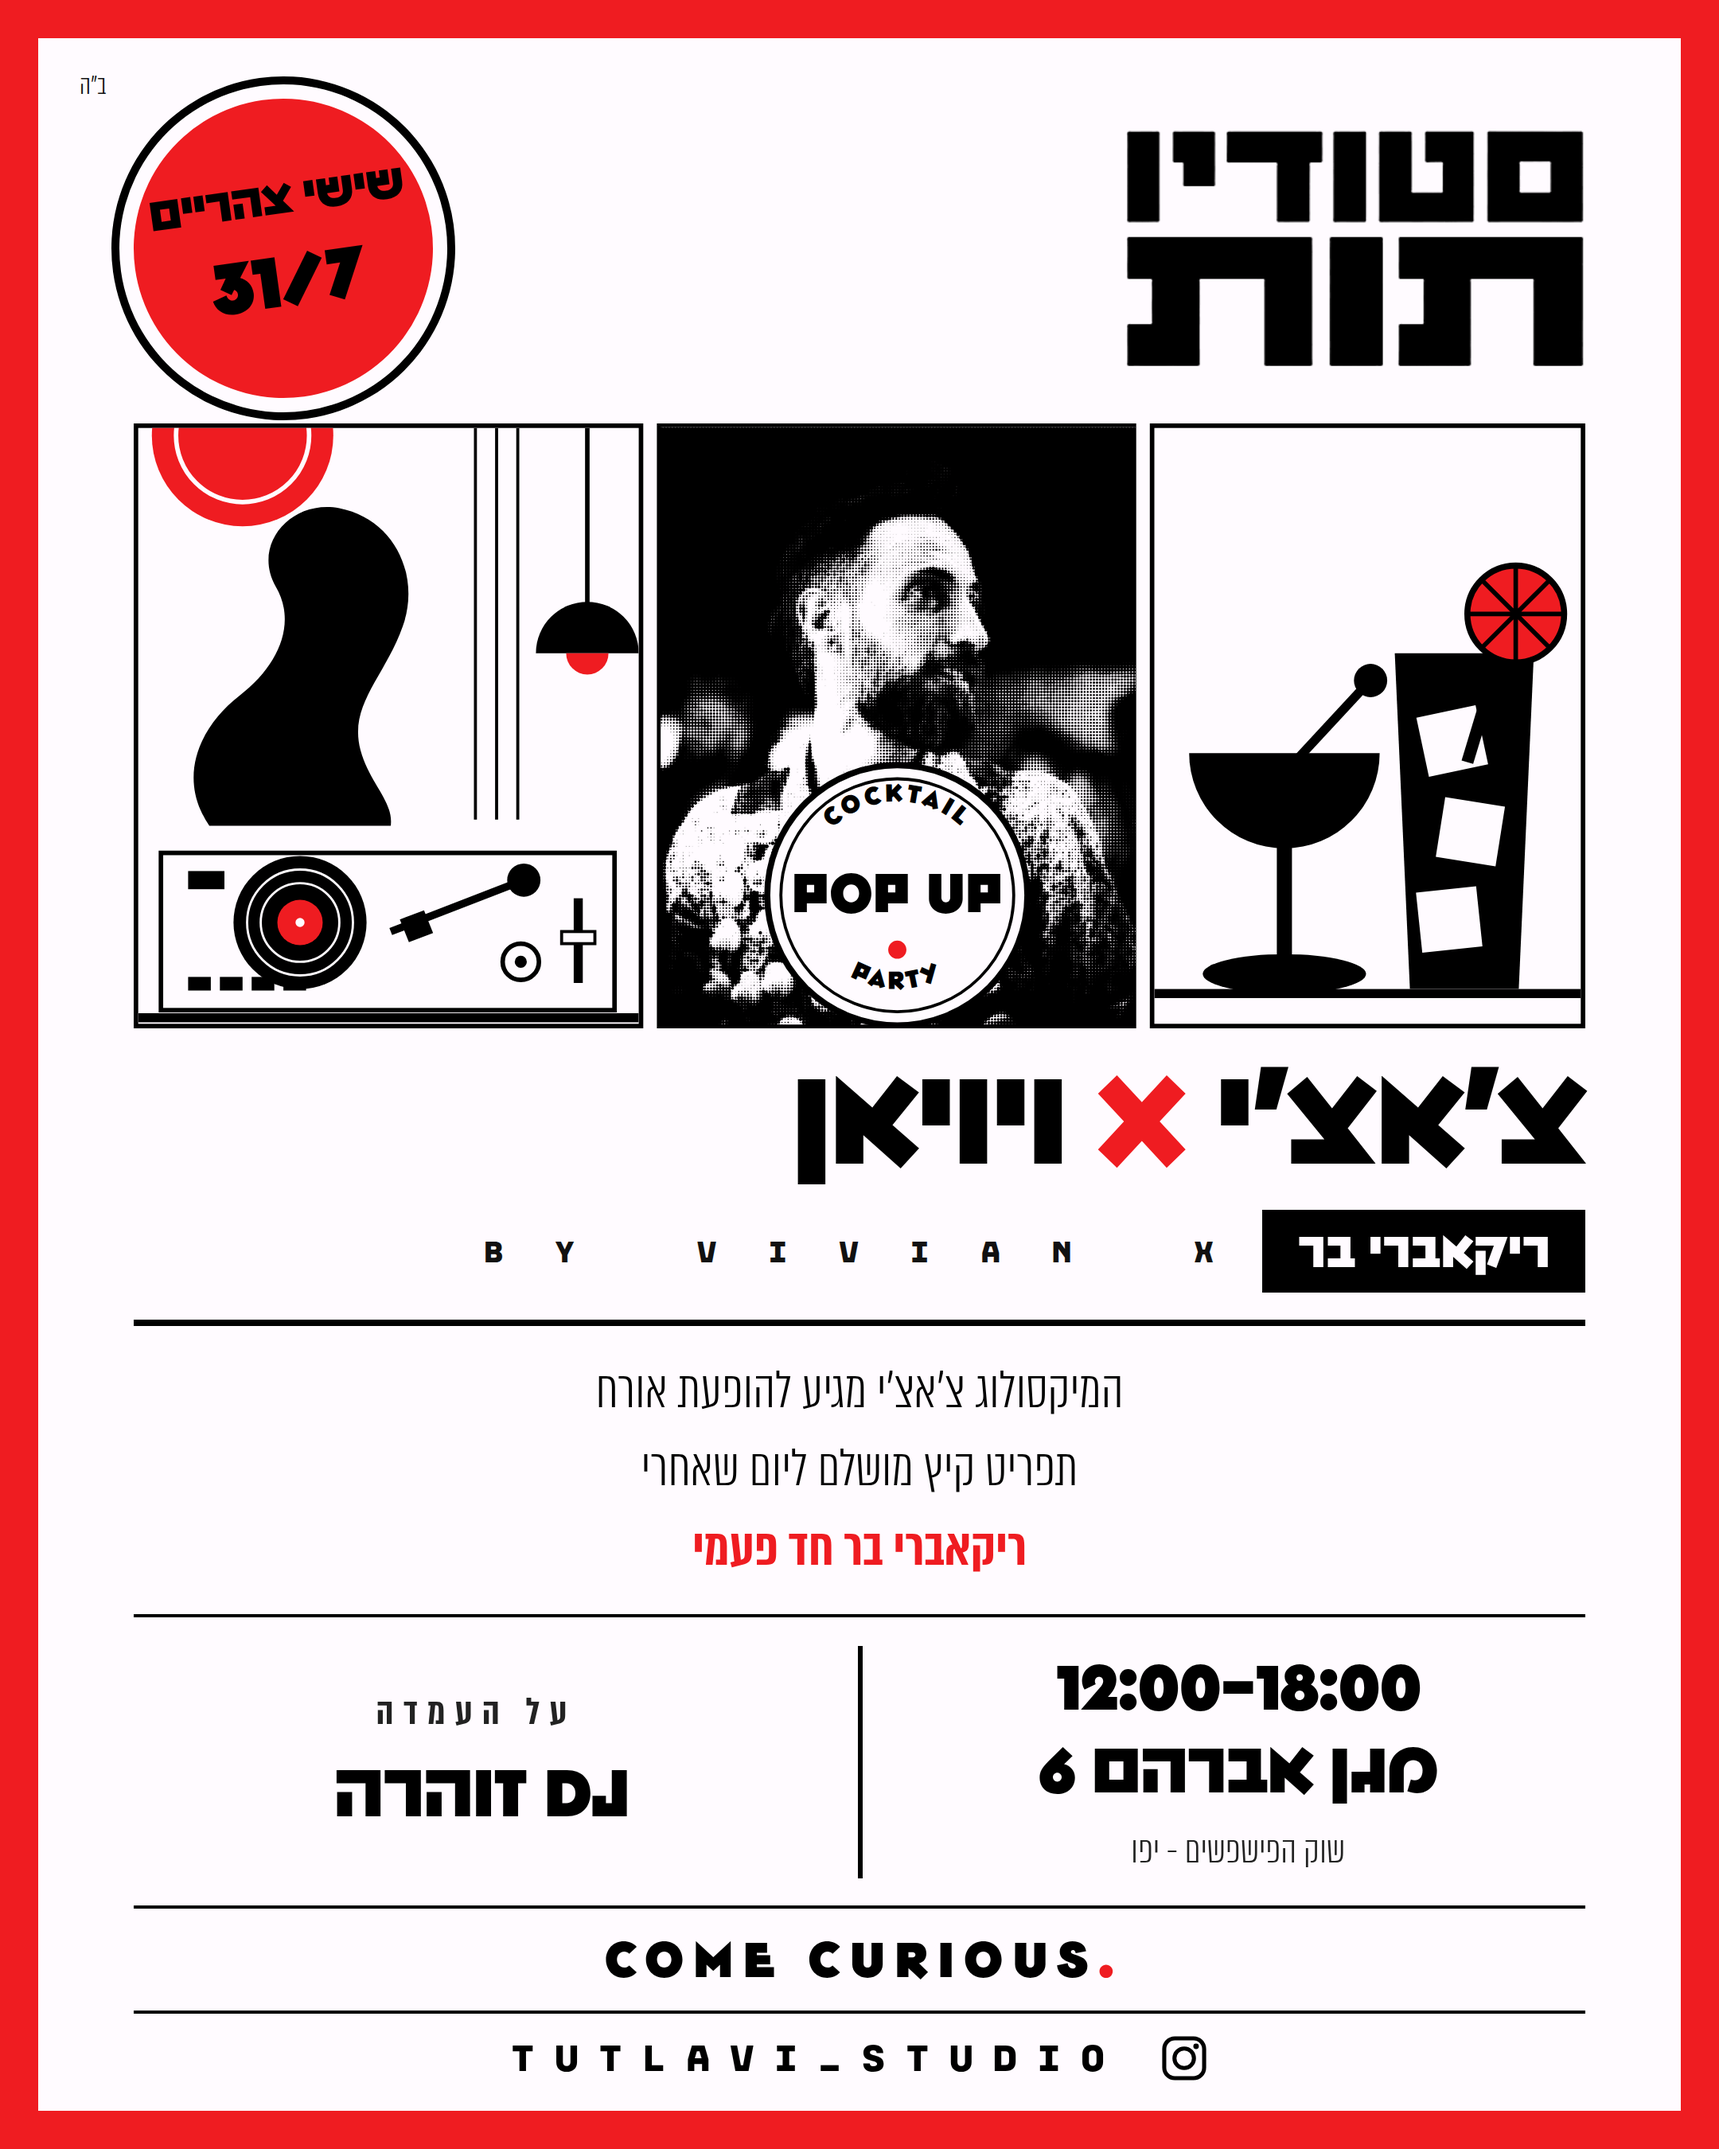
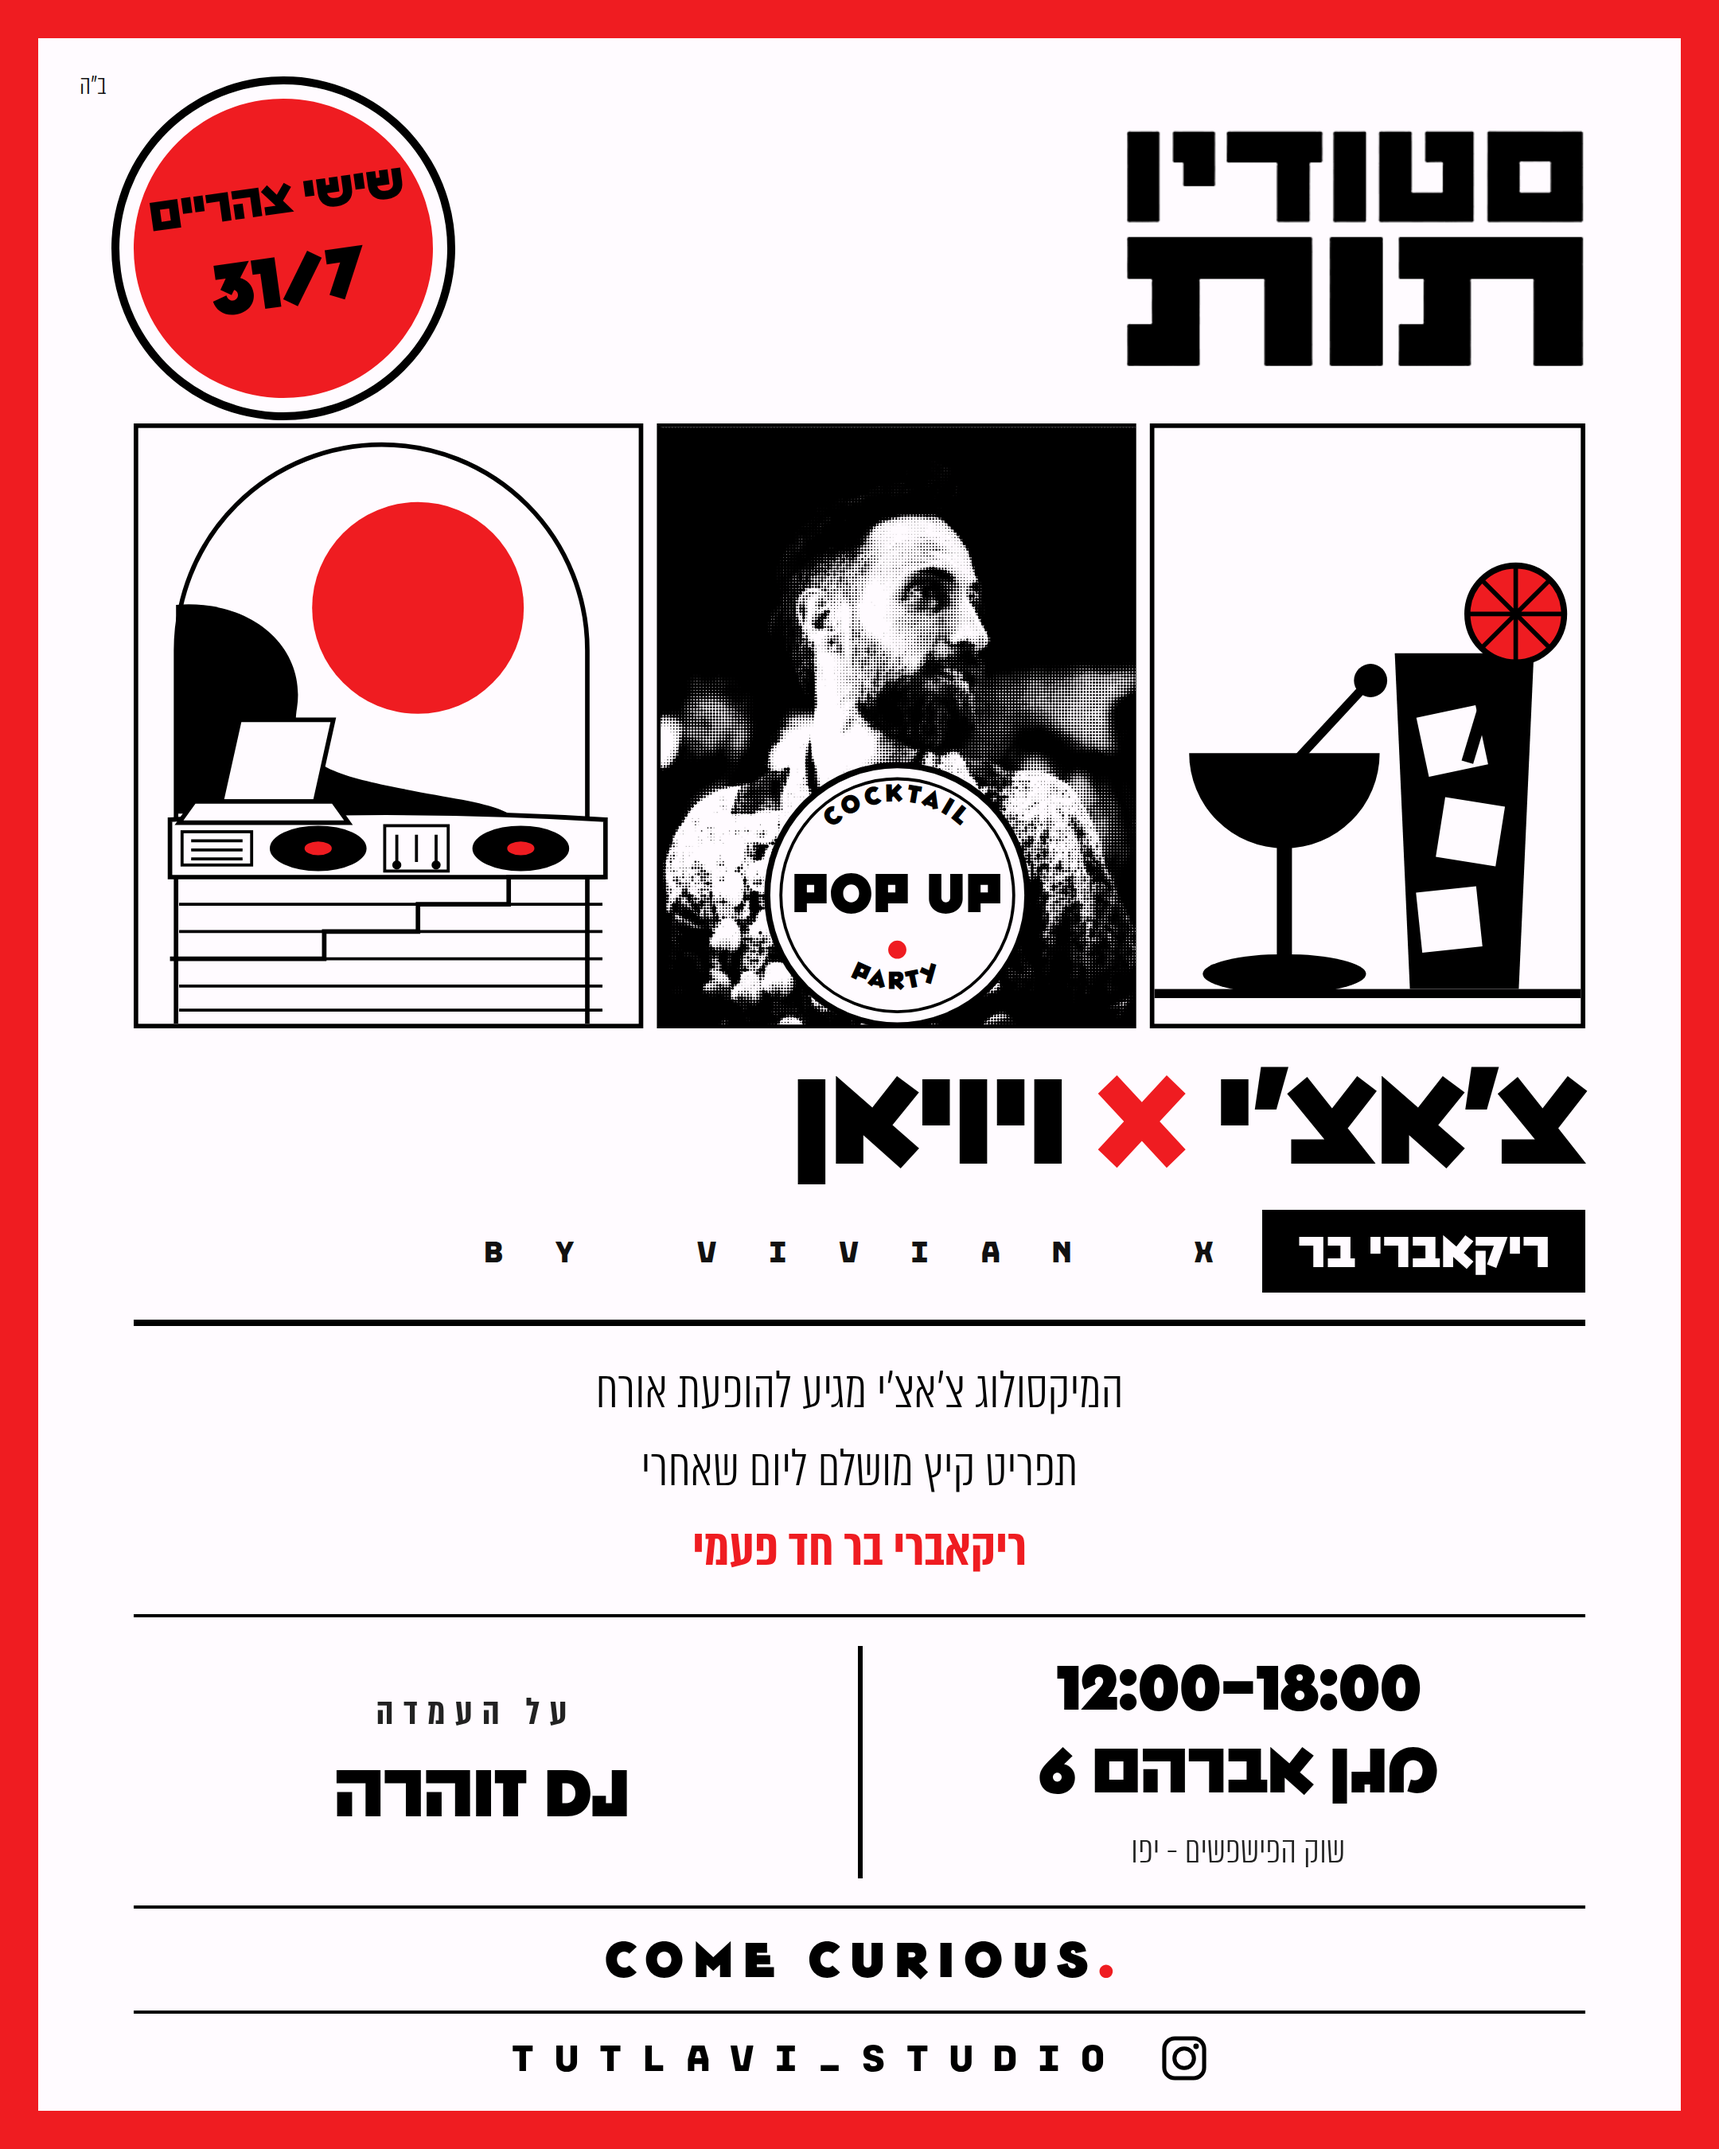
poster: rebuild the DJ panel from the opening-party poster
Arch outline, red sun, black organic blob, open laptop and a wide deck
slab carrying two turntables with red labels and a mixer, over the
stepped riser lines - the same element family as the original poster's
left panel.

Claude-Session: https://claude.ai/code/session_01AhfEANtPutTF2tRQEqNaFG

Changed region(s): [[0.0931, 0.1867, 0.3722, 0.4978]]

diff --git a/media/brand/poster-chachi.html b/media/brand/poster-chachi.html
@@ -98,57 +98,51 @@
       <rect x="673.5" y="1.5" width="285" height="397"/>
     </g>
 
-    <!-- ================= LEFT PANEL: turntable · blob · pendant lamp ================= -->
+    <!-- ============ LEFT PANEL: DJ booth, after the opening-party poster ============ -->
     <clipPath id="cL"><rect x="3" y="3" width="331" height="394"/></clipPath>
     <g clip-path="url(#cL)">
-      <!-- red sun, cropped by the panel edge -->
-      <circle cx="72" cy="8" r="60" fill="#ef1c21"/>
-      <circle cx="72" cy="8" r="44" fill="none" stroke="#fffbff" stroke-width="3"/>
-
+      <!-- arch -->
+      <path d="M28 397 V150 a136 136 0 0 1 272 0 V397" fill="none" stroke="#000" stroke-width="3"/>
+      <!-- red sun -->
+      <circle cx="188" cy="122" r="70" fill="#ef1c21"/>
       <!-- organic blob -->
-      <path d="M50 266 C28 234 44 200 70 180 C96 160 108 132 94 108
-               C78 80 104 50 136 56 C172 63 190 100 178 134
-               C166 168 142 186 150 216 C156 238 172 250 170 266 Z" fill="#000"/>
+      <path d="M28 120 C78 116 114 148 108 188
+               C102 224 132 232 170 240
+               C208 248 234 250 248 258
+               L28 258 Z" fill="#000"/>
 
-      <!-- thin vertical rules -->
-      <g stroke="#000" stroke-width="2">
-        <path d="M226 3 V262 M240 3 V262 M254 3 V262"/>
+      <!-- ---- console ---- -->
+      <!-- deck slab -->
+      <path d="M24 262 Q166 253 312 262 L312 300 L24 300 Z" fill="#fffbff" stroke="#000" stroke-width="3"/>
+      <!-- laptop, standing on the deck -->
+      <g stroke="#000" stroke-width="3" fill="#fffbff">
+        <path d="M58 250 L120 250 L132 196 L70 196 Z"/>
+        <path d="M40 250 L132 250 L142 264 L30 264 Z"/>
       </g>
-
-      <!-- pendant lamp -->
-      <path d="M300 3 V150" stroke="#000" stroke-width="3" fill="none"/>
-      <path d="M266 152 a34 34 0 0 1 68 0 Z" fill="#000"/>
-      <path d="M286 152 a14 14 0 0 0 28 0 Z" fill="#ef1c21"/>
-
-      <!-- ---- turntable, plan view ---- -->
-      <rect x="18" y="284" width="300" height="104" fill="#fffbff" stroke="#000" stroke-width="3"/>
-      <!-- platter -->
-      <circle cx="110" cy="330" r="44" fill="#000"/>
-      <circle cx="110" cy="330" r="35" fill="none" stroke="#fffbff" stroke-width="1.5"/>
-      <circle cx="110" cy="330" r="26" fill="none" stroke="#fffbff" stroke-width="1.5"/>
-      <circle cx="110" cy="330" r="15" fill="#ef1c21"/>
-      <circle cx="110" cy="330" r="3"  fill="#fffbff"/>
-      <!-- tone arm -->
-      <circle cx="258" cy="302" r="11" fill="#000"/>
-      <path d="M258 302 L170 336" stroke="#000" stroke-width="5" fill="none"/>
-      <path d="M176 328 l16 -6 6 15 -16 6 Z" fill="#000"/>
-      <!-- pitch fader -->
-      <rect x="291" y="314" width="6" height="56" fill="#000"/>
-      <rect x="283" y="336" width="22" height="8" fill="#fffbff" stroke="#000" stroke-width="2"/>
-      <!-- knob -->
-      <circle cx="256" cy="356" r="12" fill="none" stroke="#000" stroke-width="3"/>
-      <circle cx="256" cy="356" r="4"  fill="#000"/>
-      <!-- buttons -->
-      <g fill="#000">
-        <rect x="36" y="296" width="24" height="12"/>
-        <rect x="36" y="366" width="15" height="9"/>
-        <rect x="57" y="366" width="15" height="9"/>
-        <rect x="78" y="366" width="15" height="9"/>
-        <rect x="99" y="366" width="15" height="9"/>
+      <!-- left controller -->
+      <g stroke="#000" stroke-width="2" fill="none">
+        <rect x="32" y="270" width="46" height="22"/>
+        <path d="M38 276 h34 M38 282 h34 M38 288 h34"/>
       </g>
+      <!-- turntable 1 -->
+      <ellipse cx="122" cy="281" rx="32" ry="15" fill="#000"/>
+      <ellipse cx="122" cy="281" rx="9"  ry="4.5" fill="#ef1c21"/>
+      <!-- mixer -->
+      <g stroke="#000" stroke-width="2" fill="none">
+        <rect x="166" y="266" width="42" height="30"/>
+        <path d="M174 272 v18 M187 272 v18 M200 272 v18"/>
+      </g>
+      <circle cx="174" cy="292" r="3" fill="#000"/>
+      <circle cx="200" cy="292" r="3" fill="#000"/>
+      <!-- turntable 2 -->
+      <ellipse cx="256" cy="281" rx="32" ry="15" fill="#000"/>
+      <ellipse cx="256" cy="281" rx="9"  ry="4.5" fill="#ef1c21"/>
 
-      <!-- floor -->
-      <rect x="3" y="390" width="331" height="6" fill="#000"/>
+      <!-- ---- stepped riser ---- -->
+      <g stroke="#000" stroke-width="2" fill="none">
+        <path d="M30 318 H310 M30 336 H310 M30 354 H310 M30 372 H310 M30 388 H310"/>
+      </g>
+      <path d="M312 300 H248 V318 H188 V336 H126 V354 H24" fill="none" stroke="#000" stroke-width="3"/>
     </g>
 
     <!-- ================= MIDDLE PANEL ================= -->
